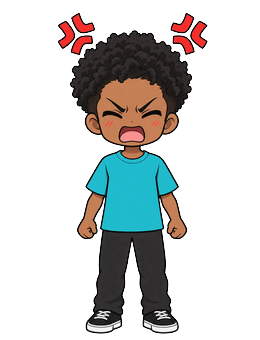
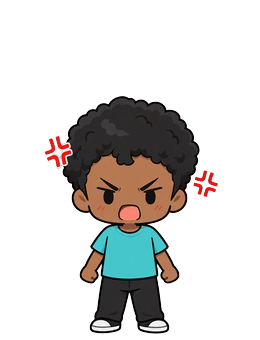
白人・黒人の子を、2頭身の新しい絵にさしかえる
前の絵は4頭身くらいで、既存の日本の子（2頭身のちび絵）と等身がそろっていなかった。
同じ絵柄で描きなおした16枚にさしかえた。

- 生成画像は1枚ごとにキャラの描かれた大きさが違ったので、4表情に同じ倍率をかける
  やり方をやめ、1枚ずつ「頭のてっぺん〜足 ＝ 238px」に合わせた（既存の日本の子と同じ基準）。
  頭のてっぺんは、左右に出る効果線を避けて体の中心の細い帯で測る
- 生成画像の端まで残っていた、ほぼ透明のもや（α≦32）を消してから測るようにした。
  これが枠の測定を狂わせ、3人ぶんが小さく出ていた
- 黒人の女の子のかなしい顔だけ元絵が黒地だったので、背景を切り抜いた。黒いズボンも
  背景と一緒に消えたため、同じ子の立ち姿の足の形を型にして元絵から戻した。
  頭のまわりにうっすら光のふちが残る
- 服の色ちがい（bb2/bg2）を新しい絵から作りなおした。新しい女の子はほっぺの赤みもあり、
  口と合わせて「服の行」と誤判定されていたので、色が途切れずに横へ続く行だけを服とみなす
- 名前の輪の色（CHAR_COLOR）を新しい服の色に合わせた

diff --git a/public/rules.js b/public/rules.js
@@ -52,7 +52,7 @@ const CHAR_POOL = {
 };
 const CHAR_COLOR = {
   p1:"#F4879F", p2:"#6FA9DD", p3:"#A98BD9", p4:"#6FC49B", p5:"#E89A5C", p6:"#57BCC9",
-  wb:"#8CC4F2", wg:"#F7A1C4", bb:"#2FB3C3", bg:"#F47A7A", bb2:"#E5B23C", bg2:"#93C84A",
+  wb:"#86B8F2", wg:"#F5A3B3", bb:"#3FB6BF", bg:"#F47A70", bb2:"#E5B23C", bg2:"#93C84A",
 };
 /* 家庭が配られたプレイヤーに、キャラと色を割りあてる（サーバーで1回だけ呼ぶ） */
 function assignChars(players){

diff --git a/README.md b/README.md
@@ -91,7 +91,9 @@ npm run storybook       # http://localhost:6006（画面を状態別に確認す
 - `-face.png` は 160×160。よろこびの絵から、頭と肩を正方形で切り出す
 - ほかの4枚は 260×340。**足が y=334 に接地**、表情どうしで体の大きさが変わらないよう**4枚とも同じ倍率**で縮める
   （`preserveAspectRatio="xMidYMax"` で描くので、ここがずれると人によって大きさが違って見える）
-- 白人・黒人の子は `p1`〜`p4` より等身が高い（4頭身くらい）ので、頭の大きさが近くなるよう、枠に収まる最大の倍率にしてある
+- 生成画像は1枚ごとにキャラの描かれた大きさが違うので、**1枚ずつ**「頭のてっぺん〜足 ＝ 238px」に合わせる。頭のてっぺんは効果線（左右に出る）を避けて、体の中心の細い帯で測る
+- 生成画像には、ほぼ透明のもや（α≦32）が端まで残っていることがある。測る前に消す
+- `bg-sad` だけは元絵が黒地で、背景を切り抜いてある（黒いズボンも背景と一緒に消えたので、同じ子の立ち姿の足の形を型にして元絵から戻した）。頭のまわりにうっすら光のふちが残る。透明背景の元絵があれば差しかえたい
 
 ---
 
